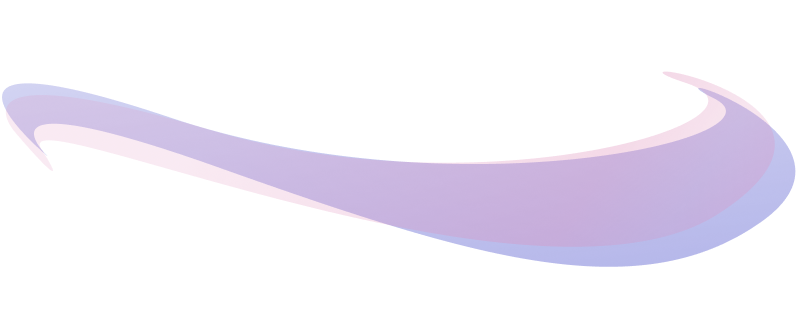
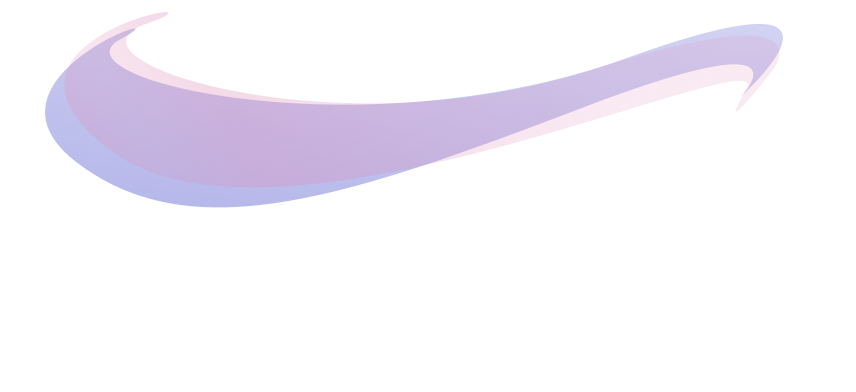
Home page IMGs resizing.

diff --git a/index.html b/index.html
@@ -46,10 +46,6 @@
           </div>
       </nav>
 
-
-
-      <div class="wave"><img src="/IMGS/Nav HOME.png" class="img-fluid"></div>
-      <div class="wave2"><img src="/IMGS/Wave 2.png" class="img-fluid"></div>
     
     
     <!------ ** HERO ** ------->
@@ -64,21 +60,24 @@
        
     
              
-            <div class="logo"><img id="logo" src="/IMGS/My Logo Anna MB.png" alt="Circular Photo of a girl with brown hair and glasses next to her name 'Anna ModicBradley' written in bold bright letters."></img>
+            <div class="logo"><img id="logo" src="/IMGS/ANNAMB.png" alt="Circular Photo of a girl with brown hair and glasses next to her name 'Anna ModicBradley' written in bold bright letters."></img>
                <a href="https://www.linkedin.com/in/anna-modicbradley-she-her-bb40051b1/"><p class="linkt">Let's Connect on LinkedIN</p></a>
                <p id="look"> Actively looking for work!</p>
                <img src="/IMGS/Green Light.png" id="light">
-            </div>
+         
             
             <div class="blu">
               <div class="blink"><p class="CSA">CREATIVE</p><p class="CSA"> STORYTELLER </p><p class="CSA">ARTIST</p></div>
             <p class="blurb"><span class="playful">Playful design with a lot of heart to brighten your scroll.</span><br></br>User Experience 'Generalist' and Content Creator, lavishing in every step of the creative process and always putting people first.</p>
-            </div>
+           
+      
     
             <div class="button">
               <div class="b"><a href="https://drive.google.com/file/d/1UTsJozk9LCa8wqJ_lR4SOmRLTQxuKp5U/view?usp=sharing"><button>Download Resume</button></a></div>
               <div class="b"><a href="/ContactMe.html"><button>Contact Me</button></a></div>
             </div>
+            </div>
+          </div>
     
     <!--************************************************** CASE STUDIES *********************************************/-->
     
@@ -103,7 +102,7 @@
     
     
         <div class="empty"></div>
-        <div class="wavefoot"><img src="/IMGS/Footer Wave.png" class="img-fluid"></div>
+      </div>
     <!------------------------FOOTER------------------------->
     
     <div class="ft">
@@ -115,7 +114,6 @@
           <li class="footer"><a href="https://www.tiktok.com/@annammmakes_?_t=8aXVBDotZu7&_r=1"><img class="social" src="Images HW:17/Vector.png" alt="My tiktok handle"/></a><a href="https://www.tiktok.com/@annammmakes_?_t=8aXVBDotZu7&_r=1"> @annammmakes_</a></li>
           <li class="footer"><a href="https://drive.google.com/file/d/14Y0AiifIGNdkIi0ImDNlIzmCcJelvEUY/view?usp=sharing">RESUME (PDF)</a></li>
        </ul>
-    </div>
     </div>
     
 

diff --git a/CSS/style.css b/CSS/style.css
@@ -1,10 +1,13 @@
 .content{
+    margin: 0 auto;
     padding-top: 10%;
     padding-left: 4%;
     padding-right: 4%;
     padding-bottom: 10%;
-    z-index: 1;
-    position: absolute;
+    width: 100%;
+    background-image: url(/IMGS/Nav\ HOME.png);
+    background-repeat: no-repeat;
+    background-size: contain;
 }
 
 a{
@@ -46,35 +49,14 @@ body{
 }
 
 
-/** WAVES **/
 
 
-.wave{
-    z-index: -1;
-    position: absolute;
-    opacity: 100%;
-    width: 100%;
-}
-
-.wave2{
-    z-index: -1;
-    position: absolute;
-    margin-top: 85%;
-    width: 100%;
-}
-
-.wavefoot{
-    z-index: -1;
-    position: absolute;
-}
-
-/** END WAVE **/
 
       
       /************** BOOTSTRAP NAV *******************/ 
 
 
-      .navbar{
+.navbar{
         justify-content: end !important;
         padding-right: 25px;
    }
@@ -245,9 +227,8 @@ body{
 
 
 #logo{
-    width: 75%;
-    margin-left: 10%;
-
+    width: 60%;
+    margin-left: 25%;
 }
 
 .blurb{
@@ -255,8 +236,6 @@ body{
     font-size: 20px;
     font-weight: 200;
     font-family:'Trebuchet MS', 'Lucida Sans Unicode', 'Lucida Grande', 'Lucida Sans', Arial, sans-serif;
-    padding-left: 15%;
-    padding-right: 15%;
 }
 
 .button{
@@ -418,14 +397,14 @@ small.text-muted{
 
 /*** FOOTER **/
 
-/**
 .ft{
     background-image: url(/IMGS/Footer\ Wave.png) ;
     background-repeat: no-repeat;
-    background-size: contain;
+    background-size: cover;
     width: 100%;
+    padding-bottom: 10%;
 }
-**/
+
 
 
 li{
